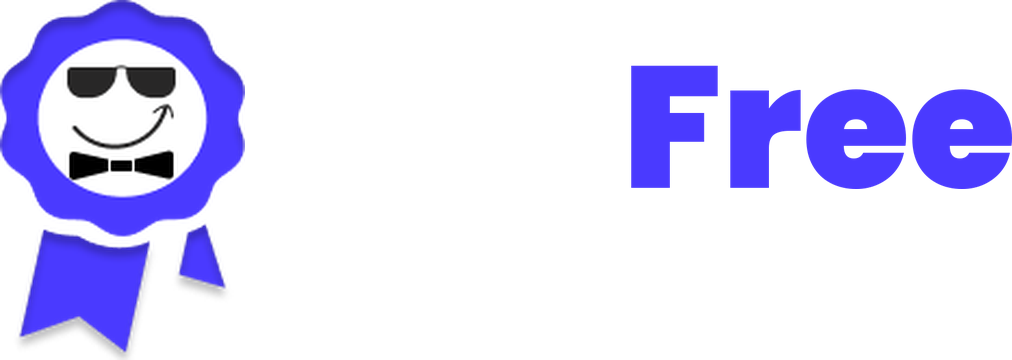
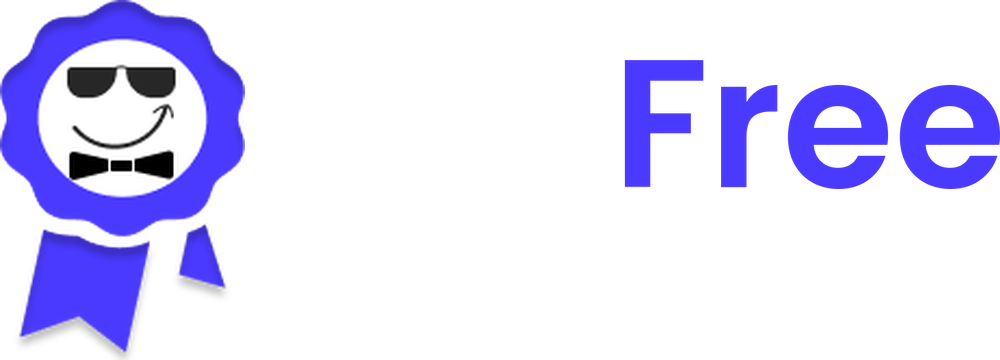
fix(apoyan): TitoFree en Poppins SemiBold, interlineado y navbar
- El wordmark de TitoFree pasa a Poppins SemiBold (era Poppins Black, demasiado
  pesado): matchea el peso/letra del logo original.
- Other Partners: interlineado (alto de fila) reducido ~1/3 vía flag "compacto"
  (144px → 100px de pitch), con max-h del logo acotado para no desbordar.
- Se saca "Voluntarios" del navbar (la ruta /voluntarios sigue existiendo).

diff --git a/src/components/Apoyan.tsx b/src/components/Apoyan.tsx
@@ -93,6 +93,13 @@ function CategoriaLogos({ cat }: { cat: Categoria }) {
     'escalaLogos' in cat && typeof (cat as { escalaLogos?: number }).escalaLogos === 'number'
       ? (cat as { escalaLogos: number }).escalaLogos
       : 1
+  // compacto: reduce el interlineado (~1/3) en categorías con muchas filas
+  // (ej. Other Partners) — baja el alto de fila y el gap vertical. También
+  // baja el max-h del logo para que los más altos no se desborden a la fila
+  // vecina al achicar la celda.
+  const compacto = 'compacto' in cat && (cat as { compacto?: boolean }).compacto === true
+  const cellHClass = compacto ? 'h-20 sm:h-24' : 'h-28 sm:h-32'
+  const imgMaxHClass = compacto ? 'max-h-20 sm:max-h-24' : 'max-h-24 sm:max-h-32'
   const colsClass =
     ({ 1: 'md:grid-cols-1', 2: 'md:grid-cols-2', 3: 'md:grid-cols-3', 4: 'md:grid-cols-4', 5: 'md:grid-cols-5', 6: 'md:grid-cols-6' } as Record<number, string>)[
       cols
@@ -108,8 +115,10 @@ function CategoriaLogos({ cat }: { cat: Categoria }) {
     centrar && typeof porFila === 'number'
       ? { maxWidth: `${porFila * 288 + (porFila - 1) * 16 + 12}px` }
       : undefined
+  // En modo compacto separamos el gap: columna normal (16px), fila reducida (4px).
+  const gapCentrar = compacto ? 'gap-x-4 gap-y-1' : 'gap-4'
   const contenedorClass = centrar
-    ? `flex flex-wrap gap-4 items-center justify-center${porFila ? ' mx-auto' : ''}`
+    ? `flex flex-wrap ${gapCentrar} items-center justify-center${porFila ? ' mx-auto' : ''}`
     : `grid grid-cols-1 sm:grid-cols-2 ${colsClass} gap-4 items-center justify-items-center`
 
   return (
@@ -139,13 +148,13 @@ function CategoriaLogos({ cat }: { cat: Categoria }) {
                 target="_blank"
                 rel="noopener noreferrer"
                 aria-label={`Visitar ${logo.nombre} (abre en una nueva pestaña)`}
-                className={`flex items-center justify-center ${anchoClass}${spanClass} h-28 sm:h-32`}
+                className={`flex items-center justify-center ${anchoClass}${spanClass} ${cellHClass}`}
                 style={revealStyle}
               >
                 {children}
               </a>
             ) : (
-              <div className={`flex items-center justify-center ${anchoClass}${spanClass} h-28 sm:h-32`} style={revealStyle}>
+              <div className={`flex items-center justify-center ${anchoClass}${spanClass} ${cellHClass}`} style={revealStyle}>
                 {children}
               </div>
             )
@@ -196,7 +205,7 @@ function CategoriaLogos({ cat }: { cat: Categoria }) {
                       e.currentTarget.style.transform = baseTransform
                       e.currentTarget.style.opacity = String(baseOpacity)
                     }}
-                    className="max-h-24 sm:max-h-32 max-w-[280px] sm:max-w-[320px] w-auto object-contain transition-[filter,transform,opacity] duration-300 ease-out cursor-pointer"
+                    className={`${imgMaxHClass} max-w-[280px] sm:max-w-[320px] w-auto object-contain transition-[filter,transform,opacity] duration-300 ease-out cursor-pointer`}
                   />
                 )
               })() : (

diff --git a/src/components/Navbar.tsx b/src/components/Navbar.tsx
@@ -8,7 +8,6 @@ const links = [
   { to: '/agenda', label: 'Agenda' },
   { to: '/pitch-battle', label: 'Pitch Battle' },
   { to: '/startups', label: 'Startups' },
-  { to: '/voluntarios', label: 'Voluntarios' },
   { to: '/galeria', label: 'Galería' },
 ]
 
